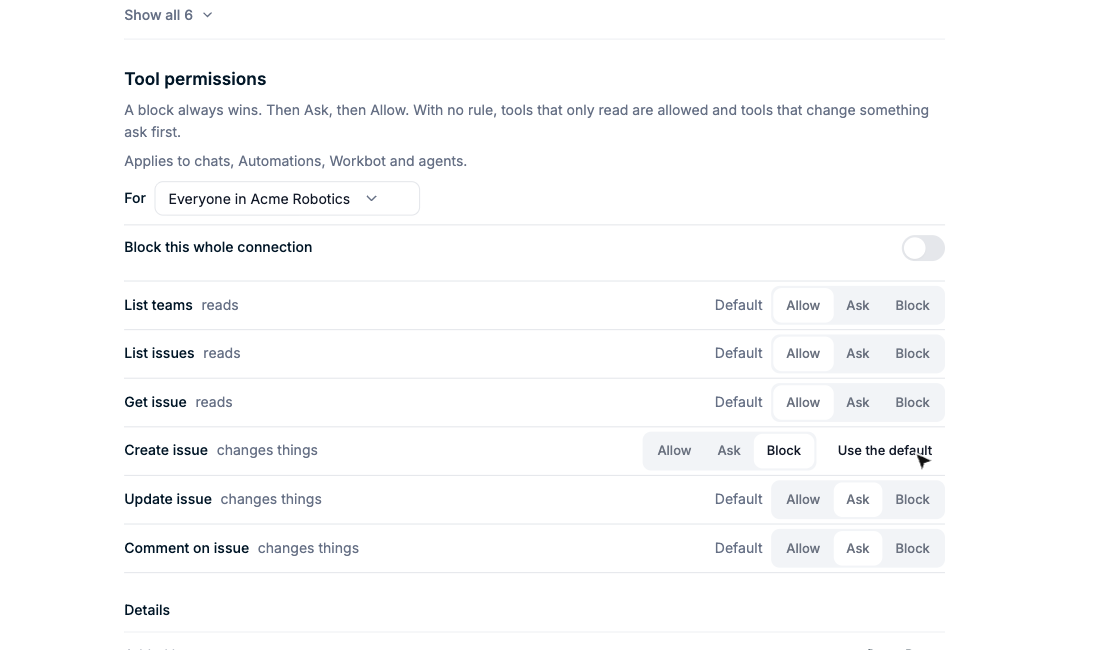
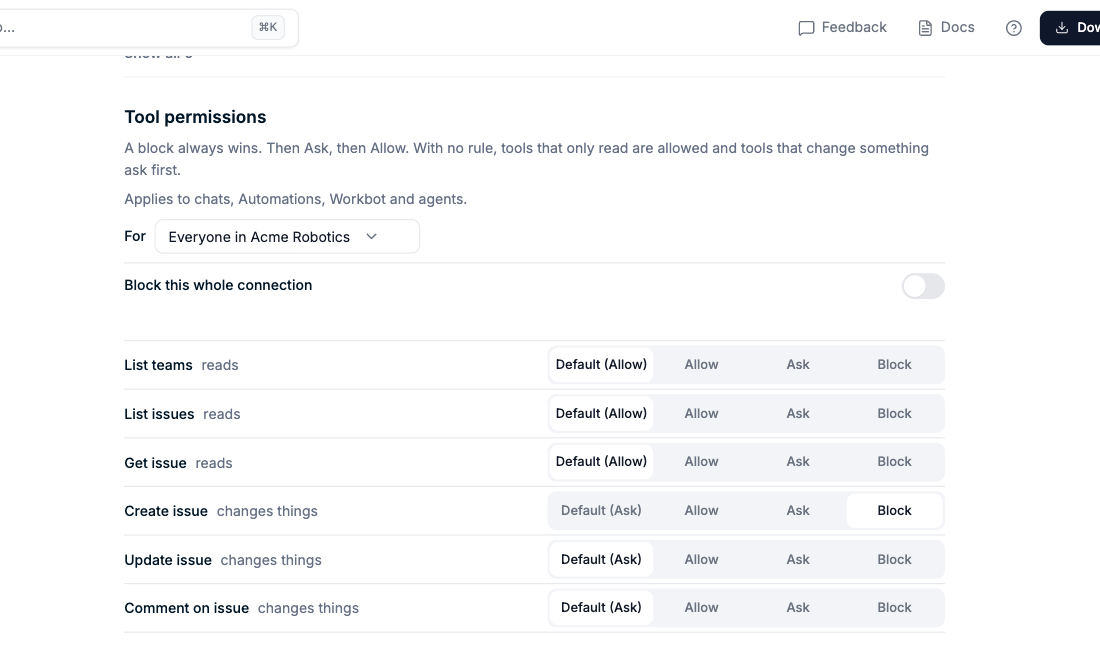
docs(agents): tool rows, approvals in the run and the run panel, before and after

diff --git a/docs/features/tool-permissions/README.md b/docs/features/tool-permissions/README.md
@@ -92,3 +92,36 @@ rules, approval and dispatch behavior; `self-hosted-flags-off.api.test.ts`
 for deployment gating; `personal-agent-permissions.api.test.ts` and
 `personal-agent-org-rules.api.test.ts` for agent compatibility. Run each
 file separately.
+
+## Rows, the run panel and approvals
+
+Three presentation rules came out of the first watch-through of the feature,
+with the before and after of each:
+
+- A tool row is one control with four segments, Default, Allow, Ask and
+  Block, that never moves or changes width. Default says what applies
+  without a rule of your own. Messages that are not about one row (the whole
+  connection is blocked, a save failed) use one reserved line under the
+  switch, so rows keep their height.
+
+  ![Tool rule rows before and after](./ux-rows.png)
+
+- The approval for an Automation sits inside the run that asked, on the
+  Automations page, and that run is marked "Needs your yes" in Run history.
+  After Allow once the line stays in place and offers the new run.
+
+  ![The approval card before and after](./ux-approval.png)
+
+- A run shows its result and "What it did" (one line per connector tool with
+  its connection and outcome) first. The step-by-step list, with readable
+  labels and token counts, is behind "Show steps". Nothing raw is shown.
+  This panel is the ordinary Automations page, so it also applies with the
+  feature off; only presentation changed there.
+
+  ![The run panel before and after](./ux-run-panel.png)
+
+  ![The same at narrow widths](./ux-narrow.png)
+
+New headless runs record three small facts per connector step for that list:
+the tool's name, the connection's name and how it ended (done, failed,
+blocked, asked). Never arguments or results. Older runs show generic lines.
